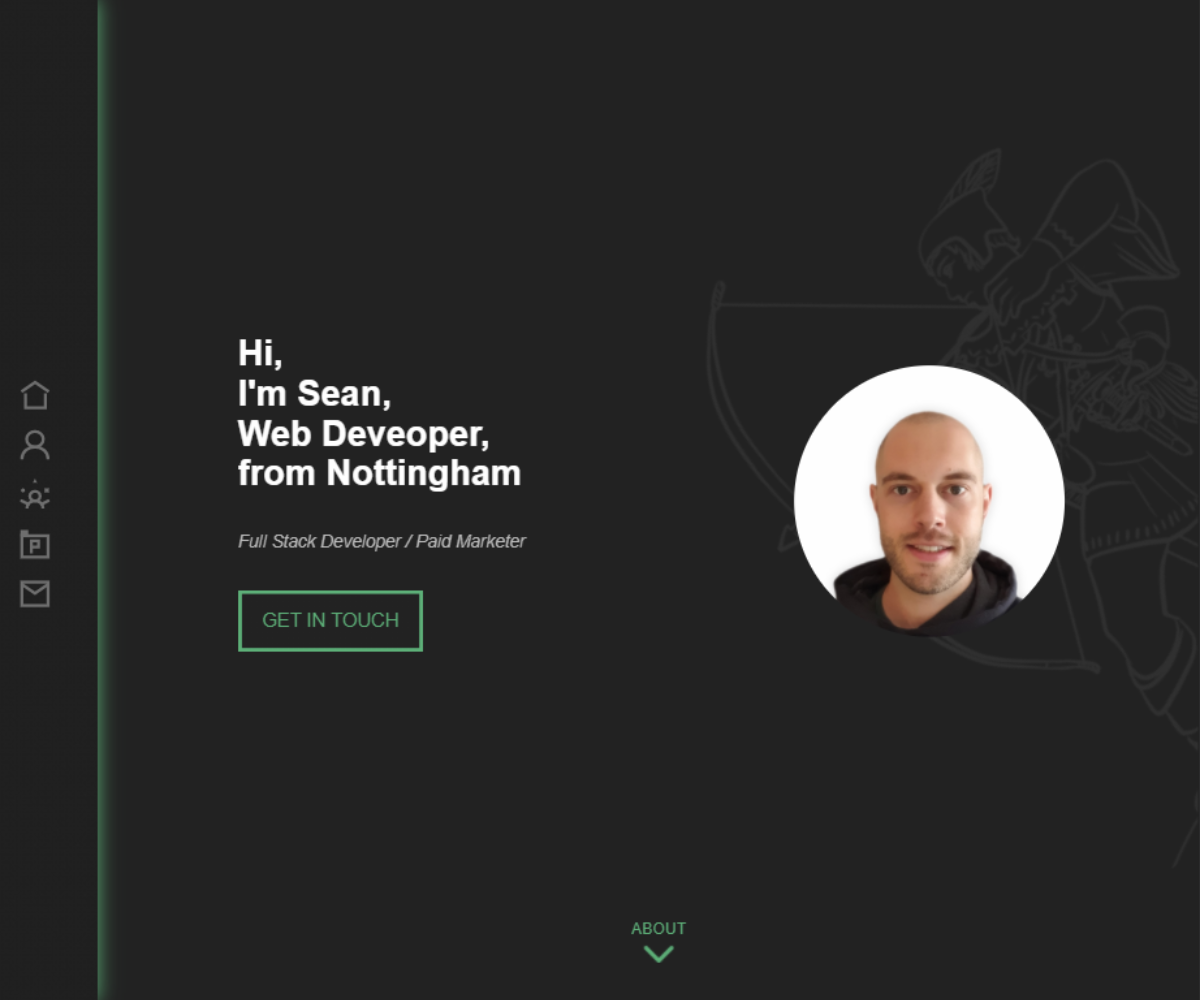
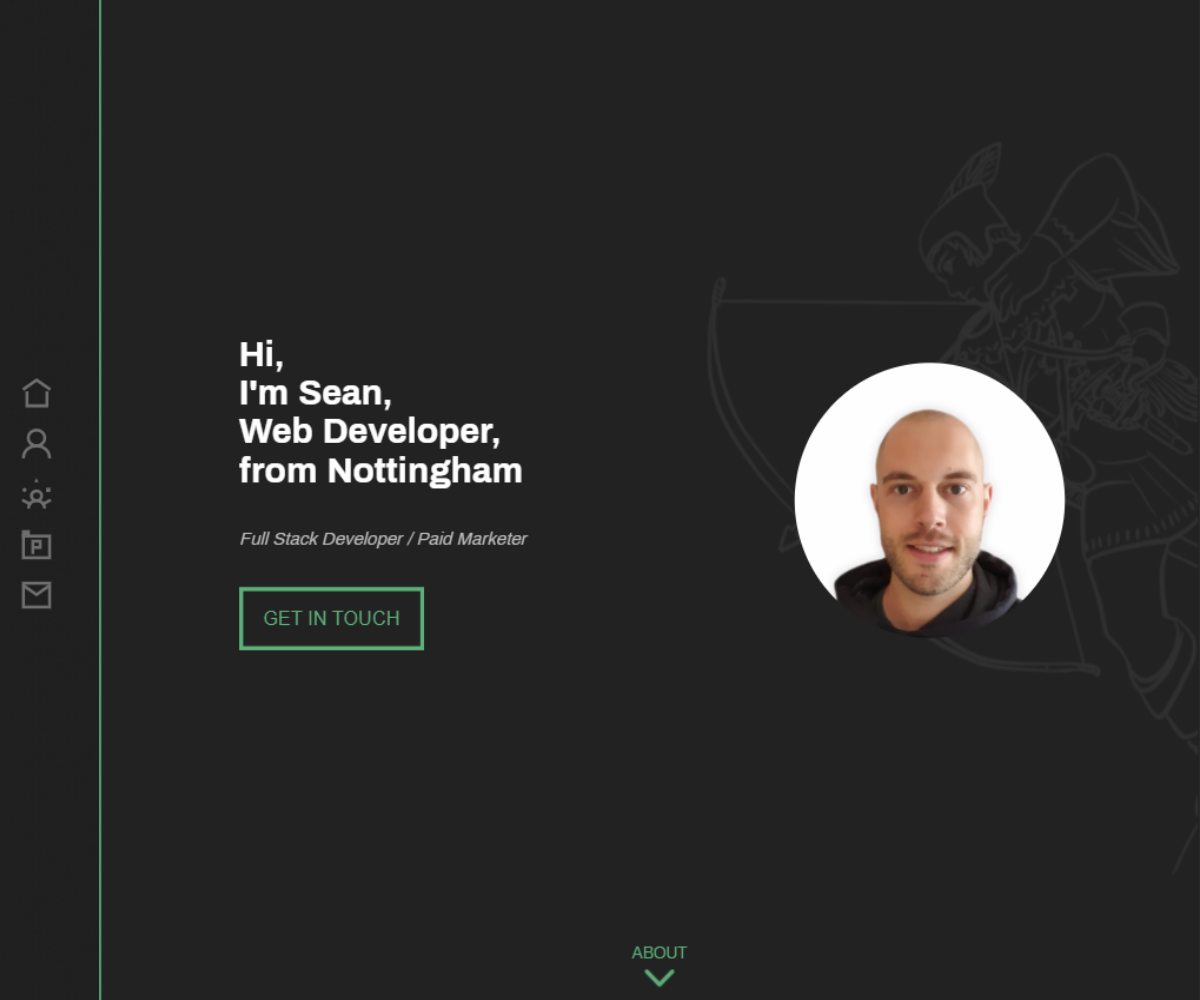
Nav - box shaddow blur removed

diff --git a/src/styles/components/nav/nav.css b/src/styles/components/nav/nav.css
@@ -5,8 +5,8 @@
   height: 100vh;
   width: 100px;
   z-index: 5;
-  -webkit-box-shadow: 0px 0px 20px #5DB179;
-          box-shadow: 0px 0px 20px #5DB179;
+  -webkit-box-shadow: 0px 0px 0px 2px #5DB179;
+          box-shadow: 0px 0px 0px 2px #5DB179;
   -webkit-transition: width 0.5s ease-in-out, -webkit-box-shadow 0.5s ease-in-out;
   transition: width 0.5s ease-in-out, -webkit-box-shadow 0.5s ease-in-out;
   transition: width 0.5s ease-in-out, box-shadow 0.5s ease-in-out;
@@ -76,8 +76,8 @@
 
 #nav:hover {
   width: 180px;
-  -webkit-box-shadow: 0px 0px 30px #5DB179;
-          box-shadow: 0px 0px 30px #5DB179;
+  -webkit-box-shadow: 0px 0px 0px 5px #5DB179;
+          box-shadow: 0px 0px 0px 5px #5DB179;
 }
 
 #nav:hover .nav-links-container .nav-link {

diff --git a/src/styles/components/nav/nav.scss b/src/styles/components/nav/nav.scss
@@ -1,6 +1,7 @@
 // Variables
 $color-main-green: #5DB179;
 $color-grey: #BDBDBD;
+$color-orange: #FF6F59;
 
 // Nav - Component
 #nav {
@@ -10,7 +11,7 @@ $color-grey: #BDBDBD;
     height: 100vh;
     width: 100px;
     z-index: 5;
-    box-shadow: 0px 0px 20px $color-main-green;
+    box-shadow: 0px 0px 0px 2px $color-main-green;
     transition: width 0.5s ease-in-out, box-shadow 0.5s ease-in-out;
     .mobile-menu {
         display: none;
@@ -54,7 +55,7 @@ $color-grey: #BDBDBD;
     }
     &:hover {
         width: 180px;
-        box-shadow: 0px 0px 30px $color-main-green;
+        box-shadow: 0px 0px 0px 5px $color-main-green;
         .nav-links-container {
             .nav-link {  
                 position: relative;         
